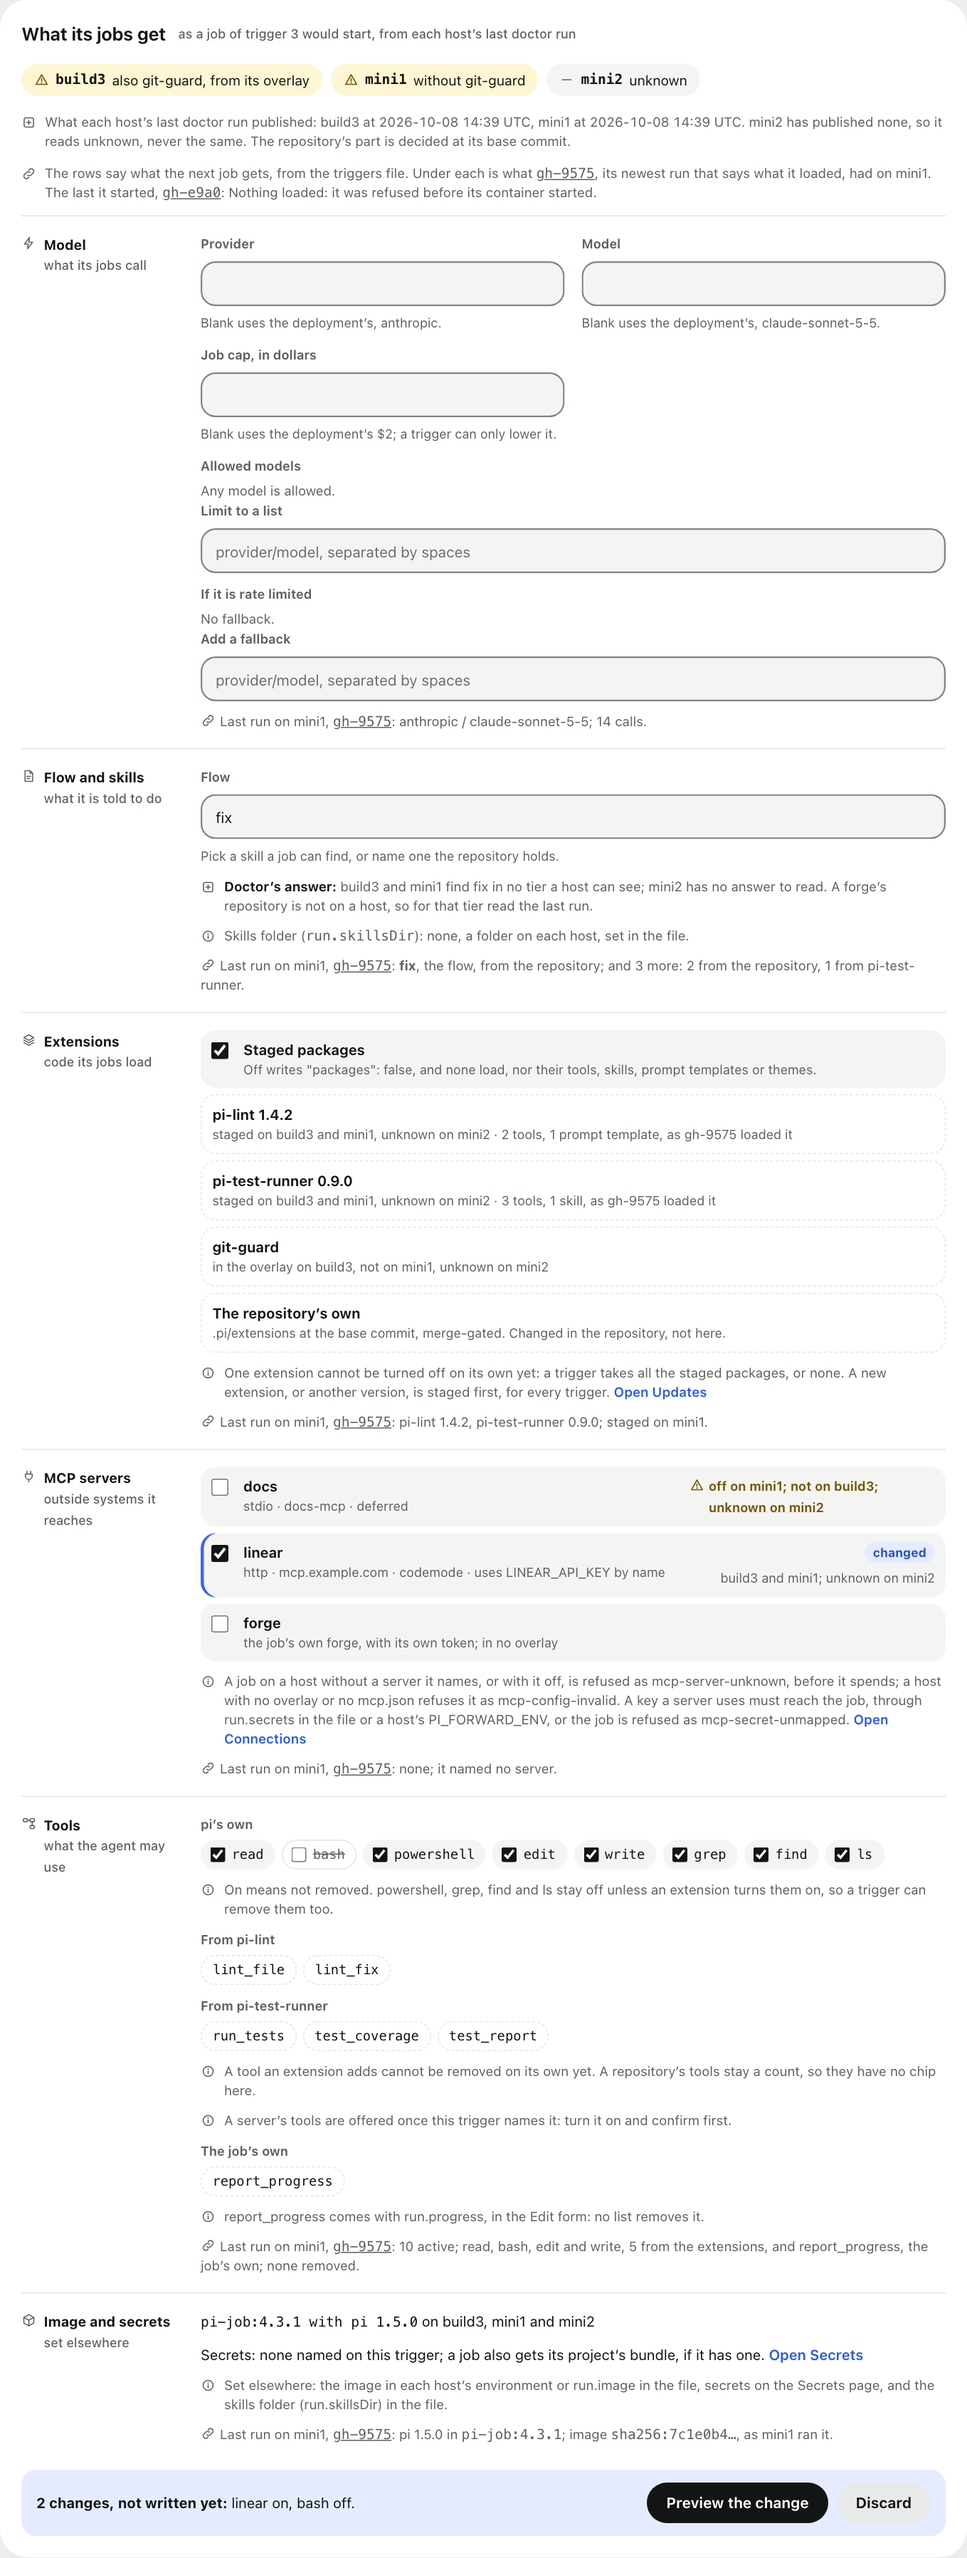
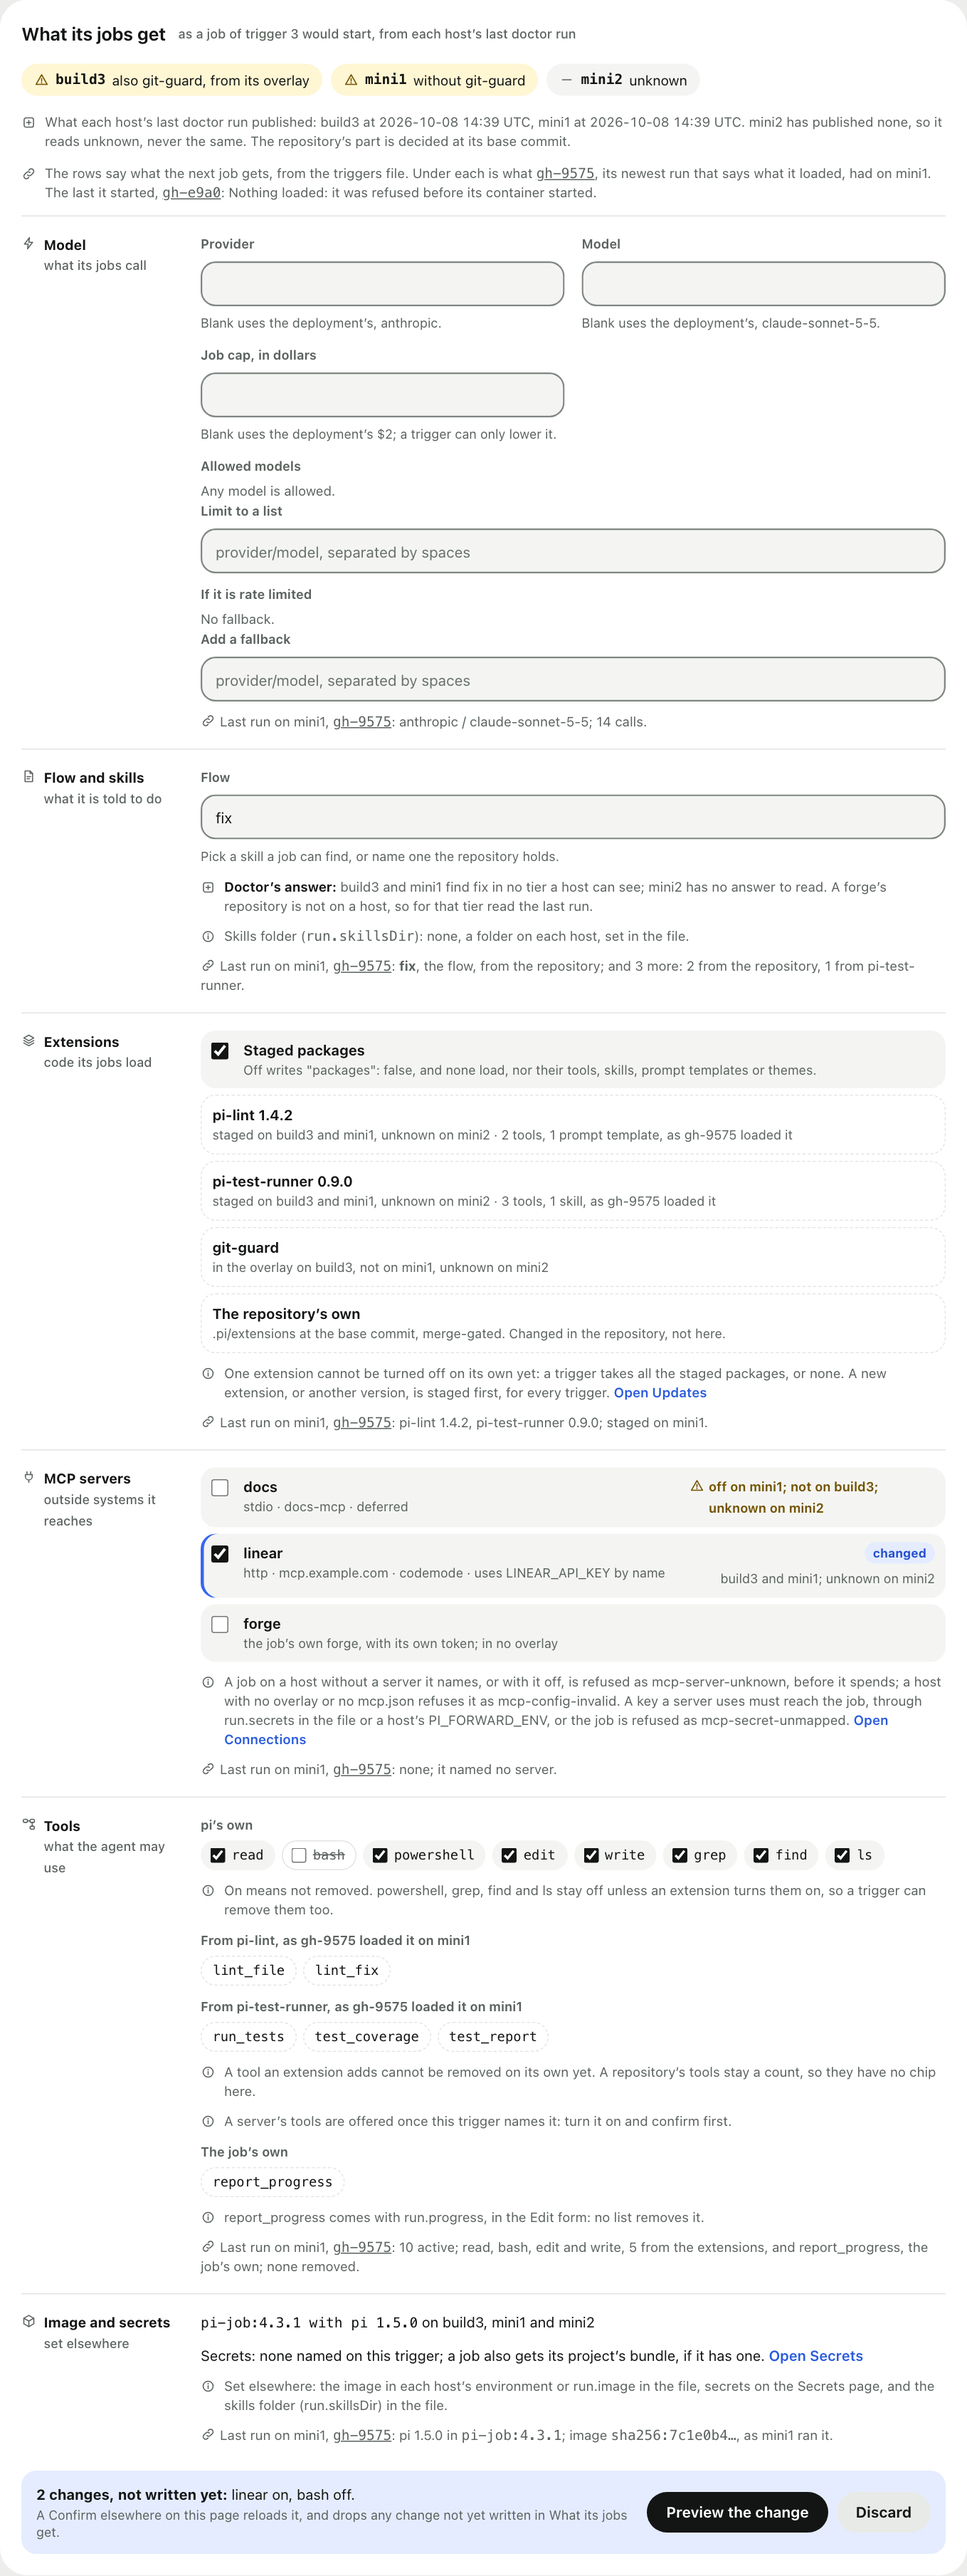
docs(console): split what a preview refuses from what it warns of (#800)
A preview refuses what the file alone decides and warns of what depends on the
host, and the table read as if it refused all of it. It is now two tables, each
quote met through the real planner, and a warning shown to leave the Confirm. A
scan holds every warning the planner can say to a row, as one already held every
refusal. docs/mcp.md and docs/costs.md already said this, UNCHANGED, checked.

The pills' table follows their new words, and the section says any move closes a
preview and what the Tools row shows.

The two images are drawn again from the goldens, and the change's alt says what
it shows: a job a machine reading the file would refuse, and that a job on a
machine without linear is refused. Each has a new tag. No image is deleted.

diff --git a/docs/console.md b/docs/console.md
@@ -2266,10 +2266,12 @@ none.
 
 | The pill says | When |
 |---|---|
-| `the same` | Two or more hosts can say, and they agree on what this trigger loads from: its staged packages unless it withholds them, the overlay's extensions where the host allows them, the servers it names, and where doctor found its flow. |
+| `the same` | Two or more hosts can say, and they agree on everything the rows beneath say: what this trigger loads from (its staged packages unless it withholds them, the overlay's extensions where the host allows them, the overlay's skills, the servers it names and how each is defined, and where doctor found its flow), and the image and its pi, unless the trigger names its own image. |
 | `the only host` | There is one host, so it has nothing to be the same as. |
 | `the only one known` | The other hosts read `unknown`, so it has nothing to compare with. |
-| `also …; without …; its flow …` | Hosts differ. Each part is there only when it is true of this host: what it has over another, what it goes without, and where it finds the flow, when hosts find it in different places. |
+| `also …; without …; … defined differently; its flow …; runs …` | Hosts differ. Each part is there only when it is true of this host: what it has over another, what it goes without (a server this trigger names, even where every host does), a server it names defined differently, where it finds the flow when hosts find it in different places, and the image it runs when hosts run different ones. |
+| `no answer for its flow`, `its flow …`, `its image unknown` | Not known to differ, and not the same either. A doctor run from before this flow was named has no answer for it, and beside it a host with an answer says what it is. A host that beats no image has none to compare. |
+| `differs in the order or kind of what it loads` | The same names, in another load order, or one a file and the other a folder. |
 | `unknown` | It published nothing, its record is old or could not be read (one a newer release wrote reads so), or it left out part of what this trigger loads from. Silence never reads as the same. |
 
 **Then one row per kind.** Each row's control comes from the file, read once with the digest of that entry. Under it is what a
@@ -2282,13 +2284,15 @@ newer one could not say, that run and why. A row with nothing to quote reads "No
 | Flow and skills | `flow` | Doctor's answer for each host, which cannot see a forge's repository, and `run.skillsDir`, a folder on each host, set in the file. A `run.command` is shown, set in the file. |
 | Extensions | `packages` | One switch for all the staged packages. Each staged package and overlay extension is shown, with where it is, and is not switched. The repository's own are shown too: merge-gated, changed in the repository. A new extension, or another version, goes through [Updates](#updates). |
 | MCP servers | `mcp` | A switch per server a host publishes, this host's overlay offers or the trigger names, with its transport, where it is, its exposure and its key by name, and which hosts have it, lack it, have it off or have not said. `forge` is the job's own, in no overlay. |
-| Tools | `excludeTools` | A chip per tool of pi's own, and for a server the trigger names, its tools as a whole and the MCP tools, each on meaning not removed. A tool an extension adds is shown from the run's record and is not switched, and a repository's stay a count. `report_progress` comes with `run.progress`, in the Edit form. |
+| Tools | `excludeTools` | A chip per tool of pi's own, and for a server the trigger names, its tools as a whole and the MCP tools, each on meaning not removed. A tool an extension adds is named as a run loaded it, by its id and host, because no host publishes a tool's name. It is not switched, it is not shown once the file withholds the packages it came with, and a repository's stay a count. `report_progress` is shown where the file sets `run.progress`, in the Edit form. |
 | Image and secrets | Nothing here | The image is each host's `PI_JOB_IMAGE` or `run.image` in the file, and secrets are on [Secrets](#secrets). |
 
 **Changes collect in one bar** (*2 changes, not written yet*), with **Preview the change** and **Discard**. The browser sends
 the digest and only what differs from what the page drew, and judges nothing: whether a model fits a cap or a server would be
 refused is the preview's to say. An emptied box or list removes the key, and every key not sent keeps its value and its place
-in the file. With no script the page reads the same, every control disabled.
+in the file. A name already on a list is no change. **Any move of a control closes an open preview**, because its Confirm no longer
+says what the form says; preview again. Discard closes it too. A Confirm elsewhere on the page reloads it and drops what the bar
+holds, and the bar and the Edit form both say so. With no script the page reads the same, every control disabled.
 
 **The preview says, before anything is written:**
 
@@ -2300,8 +2304,7 @@ in the file. With no script the page reads the same, every control disabled.
   until that copy changes." A schedule adds that while hosts' copies differ, no host installs a change to one;
 - the jobs in line a host reading this file refuses, judged on the proposed entry and named up to five (`trigger-skew`, or
   `wait-skew`), or that the line could not all be read;
-- for a server the change touches, what would stop this trigger's jobs on this host, and which hosts have a server it adds;
-- that a model clears the cap only for the smallest first call, or could not be bounded here ([costs](costs.md#a-job-cap-on-a-trigger));
+- what it warns of, below, and which hosts have a server it adds;
 - where it is written and how it is audited (`trigger-edit`, by you), then the file's lines as they would change, the Undo and
   one Confirm.
 
@@ -2315,12 +2318,11 @@ it back by hand, and why. A first write to a file this writer did not write also
 every writer of this file does: its layout, a `"version": 1`, which is written as nothing, and a number as JSON reads it. No Undo
 restores those.
 
-**What it refuses.** Each is free, and nothing is written. The words are the start of what the page says, which goes on to name the
-model, the amount or the row:
+**What it refuses.** What the file alone decides, on every host, and what could not be judged. Each is free, and nothing is written.
+The words are the start of what the page says, which goes on to name the model, the amount or the row:
 
 | It says | Why | What to do |
 |---|---|---|
-| `Send at least one field to change` | Nothing differs from what the page drew. | Change something first. |
 | `This trigger changed since the page drew it` | Its entry in the file is not the one the page drew. An edit of another trigger is no reason, so nobody is sent back for that. | Reload the page and make the change again. |
 | `There is no trigger at row` | The row has gone from the file. | Reload the page. |
 | `The triggers file could not be read` | Nothing is written over a file this page cannot read. | Correct the file. `pi-dispatch doctor` names what is wrong with it. |
@@ -2329,16 +2331,29 @@ model, the amount or the row:
 | `trigger row`, `rejected:` | The loader's own words for a value, from the trigger edit's check or a dry run of the write: a provider with a space, an allowed model with no provider, a cap that is not an amount. Or the file moved while the preview read it. | Correct the value it names, or look again and retry. |
 | `A trigger's job cap can only lower the deployment's` | The cap is above the deployment's. A job runs under the smaller of the two, and a value above `PI_MAX_COST_USD` is refused when the worker loads the file. | Set the amount it names or less, or remove this trigger's cap. The deployment's own cap belongs to its settings ([costs](costs.md#a-job-cap-on-a-trigger)). |
 | `needs at least` | The cap is below the least any call to a model this trigger names can be bounded at, so the runner would refuse every call to it before it is sent. | Choose another model, or set the amount it names ([costs](costs.md#a-job-cap-on-a-trigger)). If it is the deployment's cap that is too small, choose another model. |
-| `is a model this deployment does not know` | Every job would be refused as `model-unknown`. | Choose one from the catalog, or declare it in the overlay's `models.json`. |
-| `declares fallback models the allowed list does not name`, `is not on the models this trigger's jobs may call` | Every job would be refused as `model-not-allowed`. | Add it to the list, or remove the list or choose another model. |
-| `Every fallback must be on the allowed list` | Every job would be refused as `model-failover-no-candidate`. | Add it to `run.models`, or to `PI_ALLOWED_MODELS` when the trigger has no list. |
-| `could not be resolved` | The trigger's model or role resolves to nothing, so every job would be refused before it spends. | Correct its model or its role. |
+| `could not be resolved` | The trigger's model or role resolves to nothing for any of its jobs, so every job would be refused before it spends. | Correct its model or its role. |
 | `has no verified local cost bound`, `travels as max_completion_tokens` | No cap can bound a call to this model, so the runner refuses it under any cap. | Choose another model. A local server takes the `maxTokensField` the sentence names ([egress](egress.md)). |
-| `The deployment's settings file is invalid`, `PI_ALLOWED_MODELS is invalid`, `The deployment's job cap could not be read`, `The trigger's project or role policy could not be read`, `The overlay's models.json could not be read just now` | Something the judgement needs could not be read, so it could not be judged. An edit that does not need it is not refused for it. | Correct what it names, or try again where it says so. |
+| `On every host this trigger's jobs would be refused as mcp-excluded` | The exclusions leave a server it names no way in, however a host routes it. | Remove the server from `run.mcp`, or keep a tool that reaches it out of `run.excludeTools`. |
+| `The deployment's settings file is invalid`, `PI_ALLOWED_MODELS is invalid`, `The deployment's job cap could not be read`, `The trigger's project or role policy could not be read` | Something the judgement of a model or a cap needs could not be read, so it could not be judged. An edit that does not need it is not refused for it. | Correct what it names. |
 
-A preview warns about what would stop this trigger's jobs on this host, and refuses what the file alone decides. It judges this host
-only, since another host's overlay can say otherwise, and [mcp.md](mcp.md#naming-servers-in-a-trigger) lists what a job can be
-refused for at pickup.
+**What it warns of.** What depends on the host: its overlay, its `.env`, its allowlist and its endpoints. Another host may run the
+job, and a refusal at pickup is free and names its reason, so the preview says so, in the worker's own reason, and Confirm stays. It
+speaks only of what the change touches, and the check's lines end by saying what they read: "This reads this host's .env and
+overlay; what the worker's own service environment sets cannot be seen from here."
+
+| It says | Why | What to do |
+|---|---|---|
+| `is a model this deployment does not know` | On this host every job would be refused as `model-unknown`. | Choose one from the catalog, or declare it in the overlay's `models.json`. |
+| `declares fallback models the allowed list does not name`, `is not on the models they may call here` | On this host every job would be refused as `model-not-allowed`. | Add it to the list, or remove the list or choose another model. |
+| `every fallback must be on the allowed list` | On this host every job would be refused as `model-failover-no-candidate`. | Add it to `run.models`, or to `PI_ALLOWED_MODELS` when the trigger has no list. |
+| `this trigger's model could not be resolved` | Its model or role resolves to nothing for the jobs of one project, and those would be refused before they spend. | Correct its model or its role. |
+| `would be refused as` | The worker's own pickup check, on the entry as it would be: a server this overlay does not offer or turns off, a key that does not reach the job, and the rest of [mcp.md](mcp.md#naming-servers-in-a-trigger)'s reasons. | What the line says. `run.secrets` is set in the file, not on this page. |
+| `On this host this trigger's jobs would be refused as mcp-excluded` | The exclusions leave a server no way in as this overlay routes it, and another host's may route it another way. | Remove the server from `run.mcp`, or keep a tool that reaches it out of `run.excludeTools`. |
+| `clears this` | The cap is above the floor and below a short task's first call ([costs](costs.md#a-job-cap-on-a-trigger)). | Choose another model, or the amount it names. |
+| `could not be bounded here` | The first call on this model could not be bounded, so the runner judges it when a job runs. | Read it, and decide. |
+| `could not be read just now`, `the worker's pickup check could not`, `still reach a server could not be judged here`, `its line in the .env could not be read`, `The model catalog could not judge` | What the check reads could not be read, so it could not judge this. A pickup asks again. | Correct what it names, or try again. |
+
+A preview that warns does not say where its jobs now connect: it says what they may reach, because the next job may be refused first.
 
 When the proposed file needs a version above 1, the preview and the Confirm also read each live host's release, and refuse on a
 lower one, none, or a registry they cannot read, because an older host would drop what it does not know and can run a job wider
@@ -2355,6 +2370,7 @@ on a clean record. No field on this card needs that yet, so no host is read for 
 | A watch rule | The rows, and no form. | A watch rule's run is set in the file: it allows only some of these fields, so this page offers no change here. |
 | A row the file did not give back | The last read, and no form. | This page could not read this trigger's row from the file, so it shows the last read and offers no change. Reload to try again. |
 | A triggers file a newer release wrote, or one the page cannot read | No card. What starts it says why. | |
+| A page whose Valkey read failed | The card, from the file it read, and its form. Before you change it says what is unread. | The rows say what the next job gets, from the triggers file. The run history could not be read just now, so this says nothing of what its runs had. |
 | A page reached from a refused run | The form and this line, because the page's banner links other changes to that refusal. | A change made on this card is not linked to that run's refusal. |
 
 **What a tool cannot reach.** `trigger-environment-edit` is a person's action (`rule("person", ...)`): only the console's own

diff --git a/README.md b/README.md
@@ -240,7 +240,7 @@ updates by itself ([updates](docs/console.md#updates)).
 **A trigger:** what starts it, what it has cost and [what its jobs get](#what-a-job-gets) on each machine, which you can change right there.
 A schedule also gets a button that fires it now ([triggers](docs/triggers.md)).
 
-![What its jobs get, on one trigger's page, with two changes not written yet: a pill per machine saying what differs or that it is unknown, then the model and its job cap, the flow, the staged packages, the outside systems with linear switched on, pi's own tools with bash off, the image and secrets, what the last run had under each, and a bar with Preview the change and Discard](docs/images/console/console-trigger.png?v=2026-11-04-800)
+![What its jobs get, on one trigger's page, with two changes not written yet: a pill per machine saying what differs or that it is unknown, then the model and its job cap, the flow, the staged packages, the outside systems with linear switched on, pi's own tools with bash off, the image and secrets, what the last run had under each, and a bar with Preview the change and Discard](docs/images/console/console-trigger.png?v=2026-11-04-800b)
 
 **Your phone:** every page fits, for answering a question from wherever you are. The console listens only on its own machine
 unless you set it up otherwise, so reaching it from a phone takes a private tunnel
@@ -307,7 +307,7 @@ jobs more than they had. It says when the change takes effect and which jobs alr
 machine, and says how to undo it. One
 **Confirm** writes it, the console records who did, and **Undo** puts it back, or says what to edit by hand where it cannot.
 
-![The preview of that change, in words: linear on and where its jobs would now connect, bash off, when the change takes effect, one job in line that would be refused, what a machine without linear does, who it is recorded under, the lines of the file as they would change, the way to undo it, and one Confirm button](docs/images/console/console-trigger-change.png?v=2026-11-04-800)
+![The preview of that change, in words: linear on and where its jobs would now connect, bash off, when the change takes effect, a job in line that a machine reading the file would refuse, that a job on a machine without linear is refused and which machines have it, who it is recorded under, the lines of the file as they would change, the way to undo it, and one Confirm button](docs/images/console/console-trigger-change.png?v=2026-11-04-800b)
 
 **It refuses what would only fail later, for free.** A job cap can only lower the one you set for everything, and a model too expensive for one
 call under the cap is refused here, with the amount a short task needs, not after a job has started. If the page is out of date, it asks you
